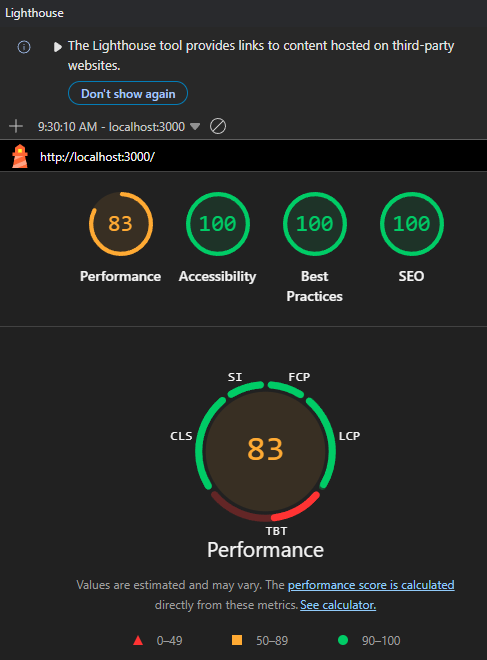
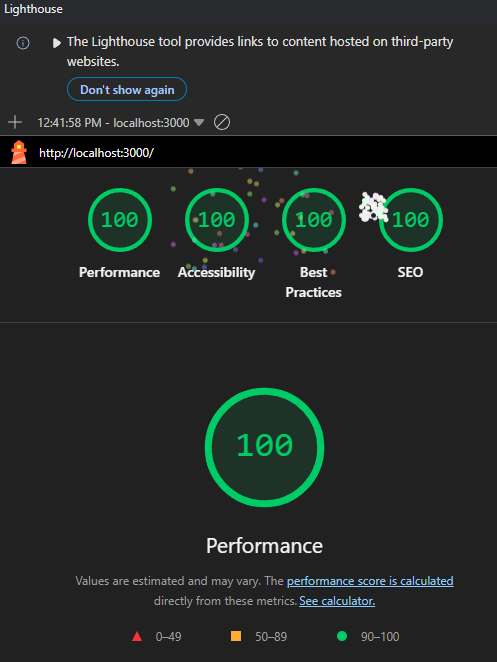
chore: push all latest changes (README, image, and config)

diff --git a/README.md b/README.md
@@ -60,27 +60,25 @@ This app is deployed online via AWS Amplify:
 
 ## ✅ Lighthouse Audit Summary
 
-- **Performance**: 83
+- **Performance**: 100
 - **Accessibility**: 100
 - **Best Practices**: 100
 - **SEO**: 100
 
 This audit was conducted using Chrome DevTools Lighthouse.
 The app demonstrates strong technical quality, with perfect scores in accessibility, SEO, and best practices.
-Performance is already high and can be further improved with minor optimizations.
 
 ---
 
 ## ✅ Lighthouse監査サマリー
 
-- **パフォーマンス**: 83
+- **パフォーマンス**: 100
 - **アクセシビリティ**: 100
 - **ベストプラクティス**: 100
 - **SEO**: 100
 
 Chrome DevToolsのLighthouseを使用して監査を実施しました。
 アクセシビリティ、SEO、ベストプラクティスにおいて満点を獲得しており、技術的に非常に高品質なアプリです。
-パフォーマンスも高水準であり、軽微な最適化でさらに向上可能です。
 
 <img width="487" height="660" alt="Lighthouse result" src="public/Lighthouse-result.png" />
 
